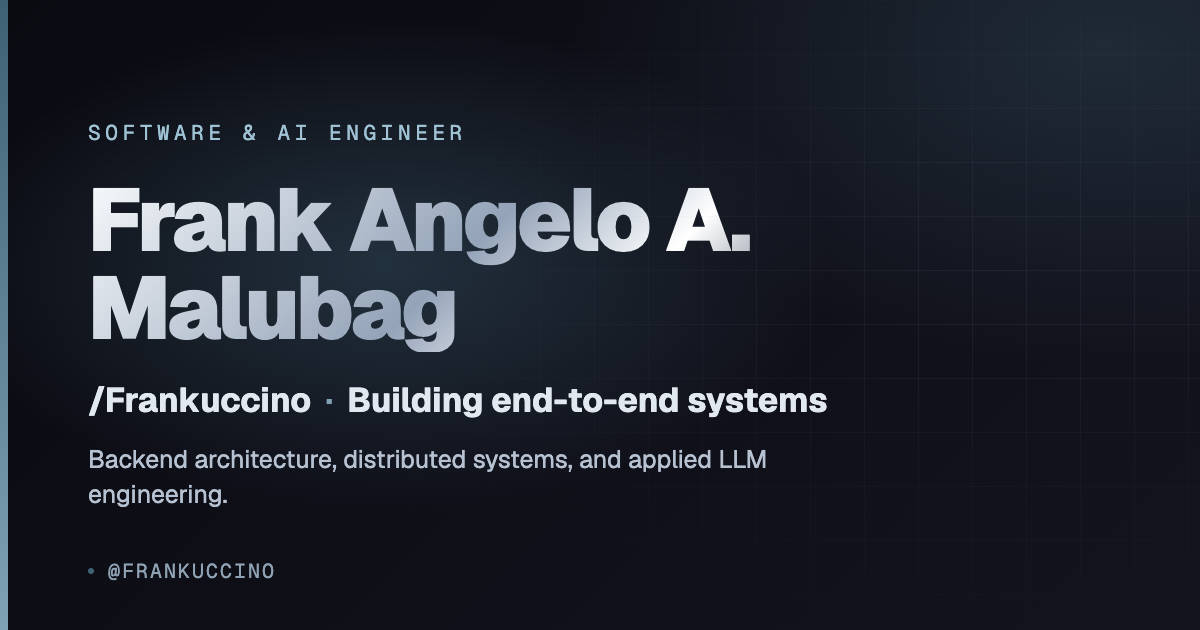
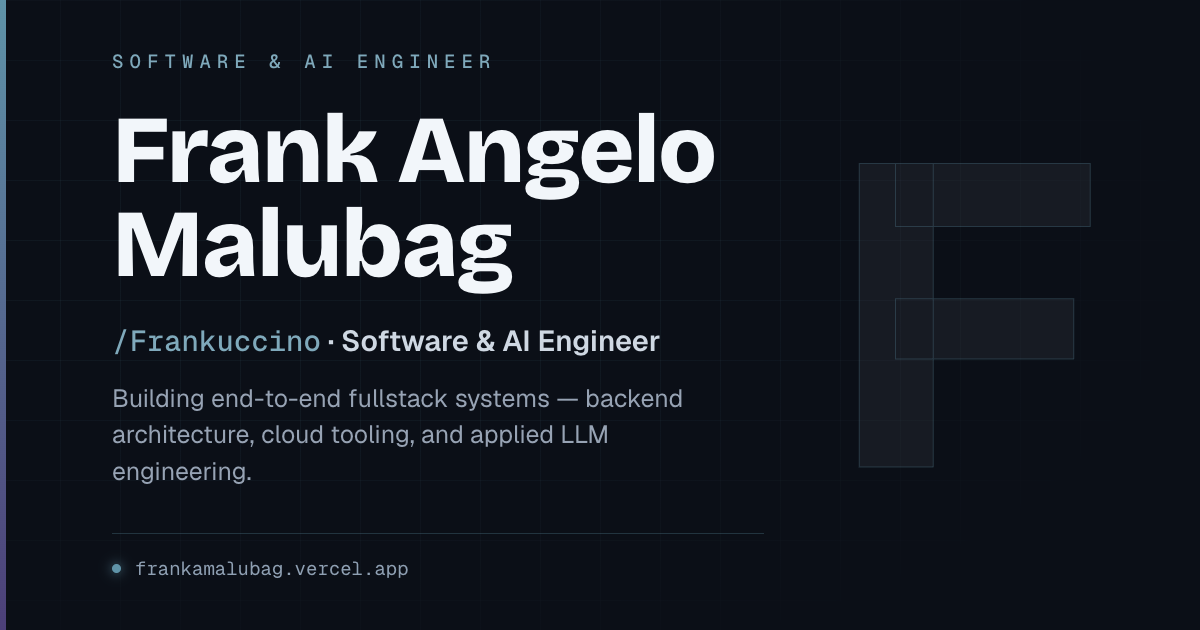
feat: redesign the Open Graph card
Rendered at 1200x630 from the site's own faces (Bricolage Grotesque 800 for the name, Geist Mono for the eyebrow and the URL line) and the site's palette, so the card no longer drifts from the brand as a raster someone made once.

Fixes the three things the critique found: the right side was dead space, so it now carries a low-contrast monogram over the grid; the footer repeated /Frankuccino two lines above and now carries the domain instead; and the secondary copy is larger and brighter so it survives chat-preview scaling. 85KB PNG, lossless so the grid lines and text edges stay exact. The alt text drops the middle initial to match the card.

diff --git a/app/lib/ogImage.ts b/app/lib/ogImage.ts
@@ -7,5 +7,5 @@ export const ogImage = {
   url: "/og-image.png",
   width: 1200,
   height: 630,
-  alt: "Frank Angelo A. Malubag — Software & AI Engineer",
+  alt: "Frank Angelo Malubag — Software & AI Engineer",
 } as const;
